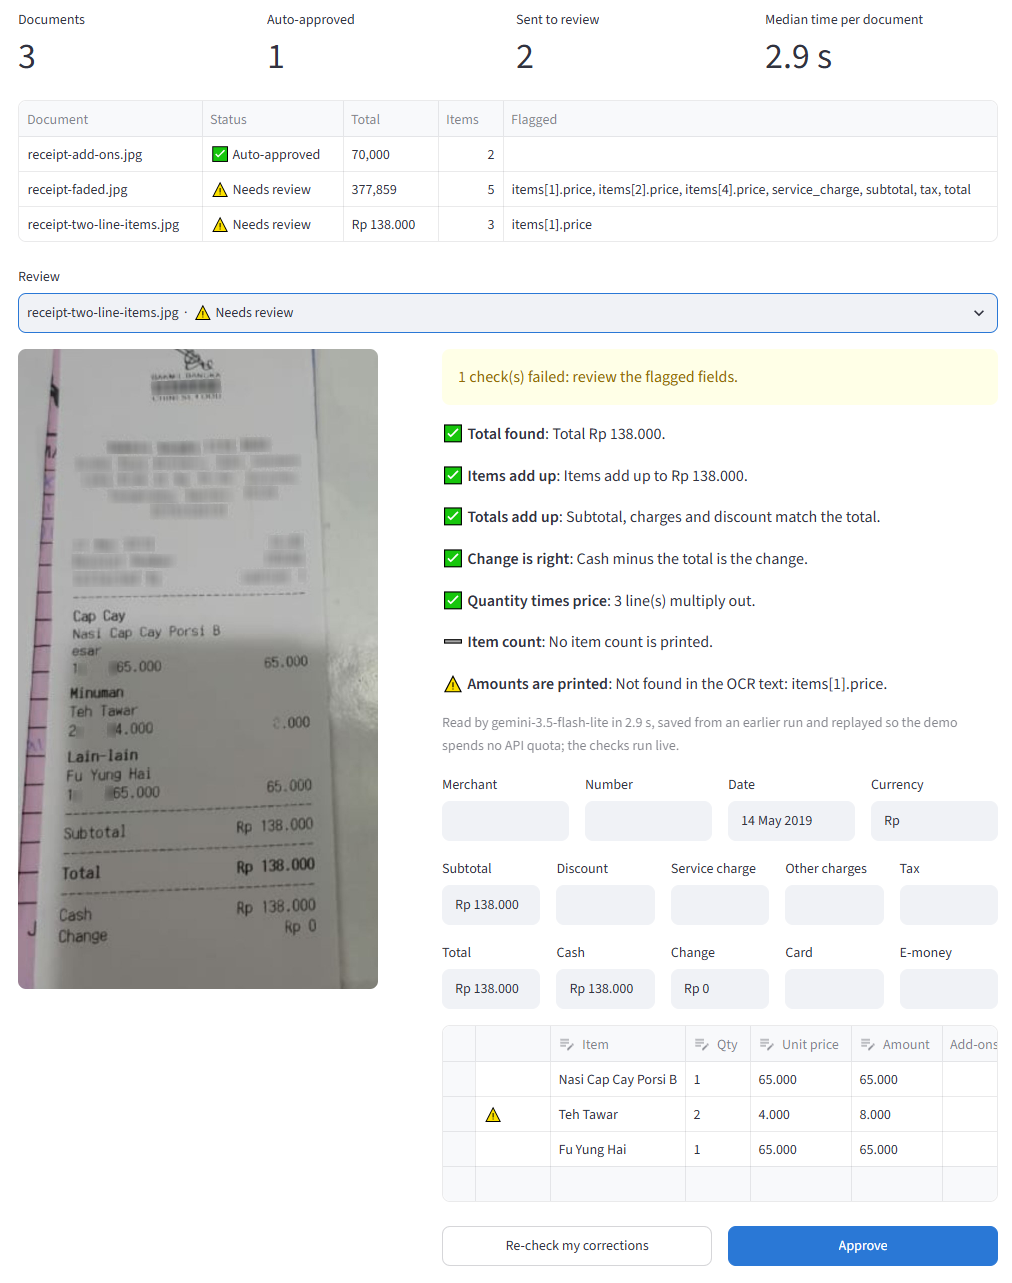
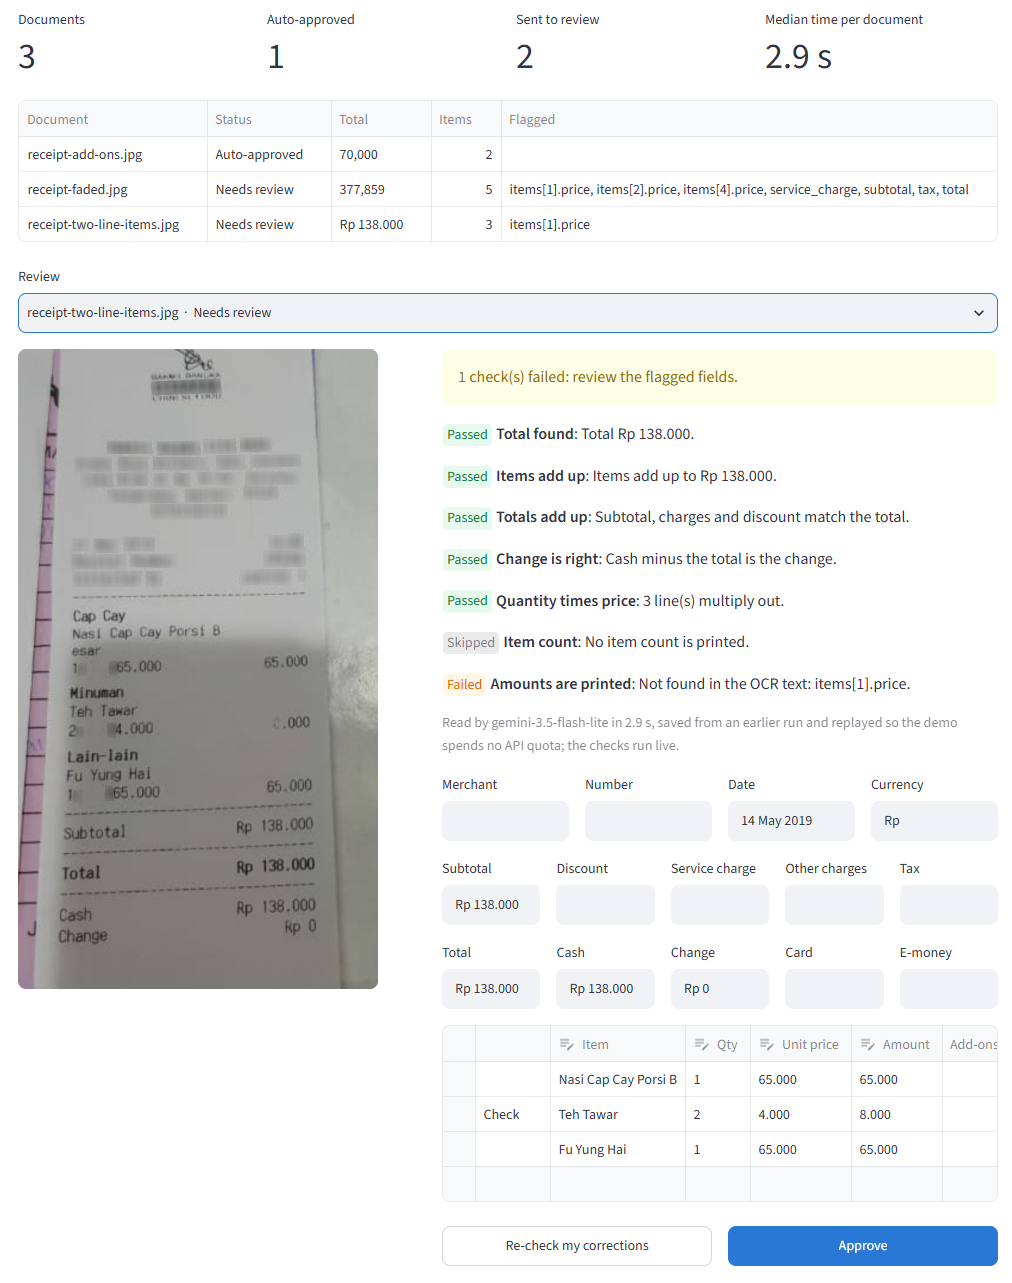
Use text badges instead of emojis in the web app
Checks show Passed, Failed or Skipped badges, statuses are plain text, and the README screenshot shows the new look.

diff --git a/app.py b/app.py
@@ -24,7 +24,7 @@ from invoiceiq.pipeline import Pipeline, Result
 from invoiceiq.schema import LineItem, Receipt
 from invoiceiq.validation import validate
 
-st.set_page_config(page_title="InvoiceIQ", page_icon="🧾", layout="wide")
+st.set_page_config(page_title="InvoiceIQ", page_icon=":material/receipt_long:", layout="wide")
 SETTINGS = Settings.from_env()
 EXAMPLES = Path(__file__).parent / "examples"
 READERS = {
@@ -51,6 +51,11 @@ AMOUNTS = {
     "change": "Change", "card": "Card", "e_money": "E-money",
 }  # fmt: skip
 ITEM_COLUMNS = {"name": "Item", "quantity": "Qty", "unit_price": "Unit price", "price": "Amount"}
+CHECK_BADGES = {
+    "pass": ":green-badge[Passed]",
+    "fail": ":orange-badge[Failed]",
+    "skip": ":gray-badge[Skipped]",
+}
 STATE = st.session_state
 for name in ("results", "files", "receipts", "reviews", "approved", "replayed"):
     STATE.setdefault(name, set() if name in ("approved", "replayed") else {})
@@ -154,10 +159,10 @@ def current(key: str) -> Result:
 
 def status_label(key: str, result: Result) -> str:
     if key in STATE.approved:
-        return "✅ Approved by reviewer"
+        return "Approved by reviewer"
     if result.review.status != "approved":
-        return "⚠ Needs review"
-    return "✅ Corrected, checks pass" if key in STATE.receipts else "✅ Auto-approved"
+        return "Needs review"
+    return "Corrected, checks pass" if key in STATE.receipts else "Auto-approved"
 
 
 def summary(keys: list[str]) -> None:
@@ -203,8 +208,7 @@ def review_panel(key: str) -> None:
         else:
             st.warning(f"{len(review.failed)} check(s) failed: review the flagged fields.")
         for check in review.checks:
-            icon = {"pass": "✅", "fail": "⚠", "skip": "➖"}[check.status]
-            st.markdown(f"{icon} **{check.name}**: {check.detail}")
+            st.markdown(f"{CHECK_BADGES[check.status]} **{check.name}**: {check.detail}")
         if key in STATE.replayed:
             st.caption(
                 f"Read by {result.model} in {result.seconds:.1f} s, saved from an earlier run and "
@@ -223,14 +227,16 @@ def review_panel(key: str) -> None:
                 )
             columns = st.columns(5)
             for index, (field, title) in enumerate(AMOUNTS.items()):
-                label = f"⚠ {title}" if field in flagged else title
+                label = f"{title} (check)" if field in flagged else title
                 values[field] = columns[index % 5].text_input(
                     label, getattr(receipt, field) or "", key=f"{field}-{widget}"
                 )
             rows = pd.DataFrame(
                 [
                     {
-                        "check": "⚠" if any(f.startswith(f"items[{i}]") for f in flagged) else "",
+                        "check": "Check"
+                        if any(f.startswith(f"items[{i}]") for f in flagged)
+                        else "",
                         **{column: getattr(item, column) or "" for column in ITEM_COLUMNS},
                         "add_ons": ", ".join(sub.name for sub in item.sub_items),
                     }
@@ -346,7 +352,7 @@ PERCENT_COLUMNS = {
 }  # fmt: skip
 
 
-st.title("🧾 InvoiceIQ")
+st.title("InvoiceIQ")
 st.caption(
     "Receipts and invoices in, validated structured data out. Every result is checked against the "
     "document's own arithmetic and against local OCR, and anything that does not add up is "
